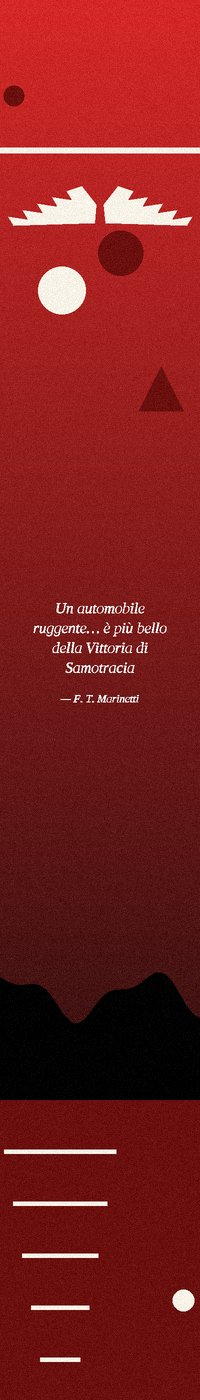
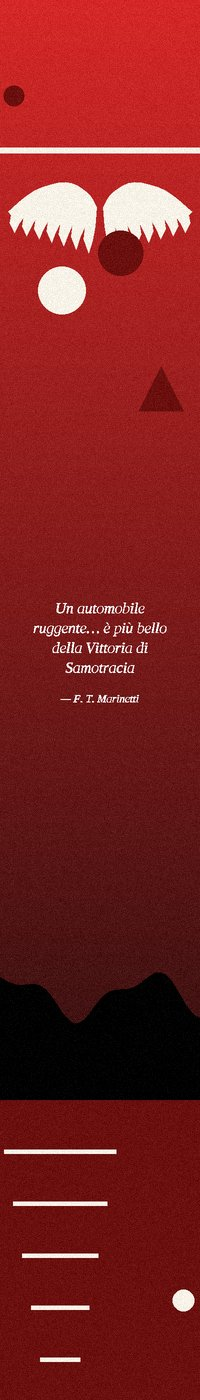
marcalibros_b: reconstruccion con las siluetas nuevas, hashes de referencia y manifest actualizados
Claude-Session: https://claude.ai/code/session_01QjbCTmgLJubEYhnqGMXTcV

Changed region(s): [[0.51, 0.1229, 0.96, 0.1843], [0.03, 0.1229, 0.48, 0.1843]]

diff --git a/marcalibros_b/PLAN.md b/marcalibros_b/PLAN.md
@@ -208,3 +208,7 @@ Hecha por Claude sin marcas de la página de revisión (no había ninguna guarda
 - `previews/`: marcalibros, plataforma-pos, lector (1200×630, SVG y PNG con Chromium).
 Texto como vectores con `texto.py` (Liberation Serif Italic). Tests en `tests/test_marca.py`.
 Pendiente de revisión del usuario: ajustar paisaje del símbolo, tipografía del logo y paletas de cabeceras.
+
+
+## Pulido de siluetas (hecho)
+Rediseñadas alas (siete plumas de punta redondeada), lobo (sentado, aullando, cola caída), gárgola (alas plegadas, cuernos, hocico), esfinge (nemes, zarpas, grupa) y mano (dedos de punta redonda y pulgar). Ayudas nuevas en `scene.py`: `bezier`, `suave` (Catmull-Rom) y `mover`. Build completo: 1000 piezas, 0 errores; 33 tests pasan; hashes de referencia regenerados.
